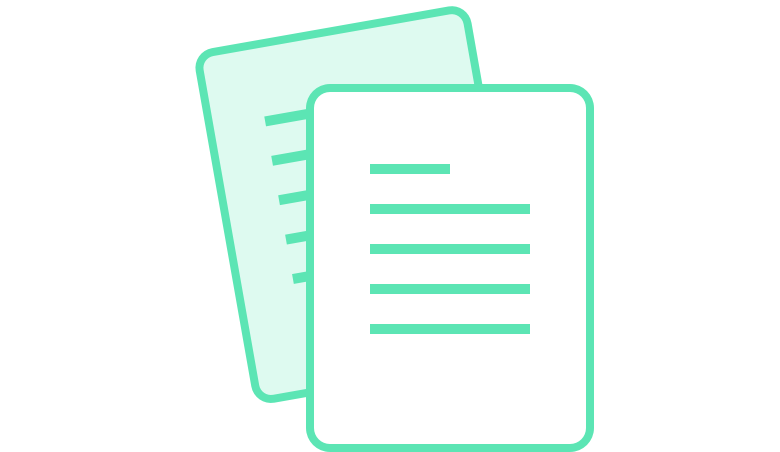
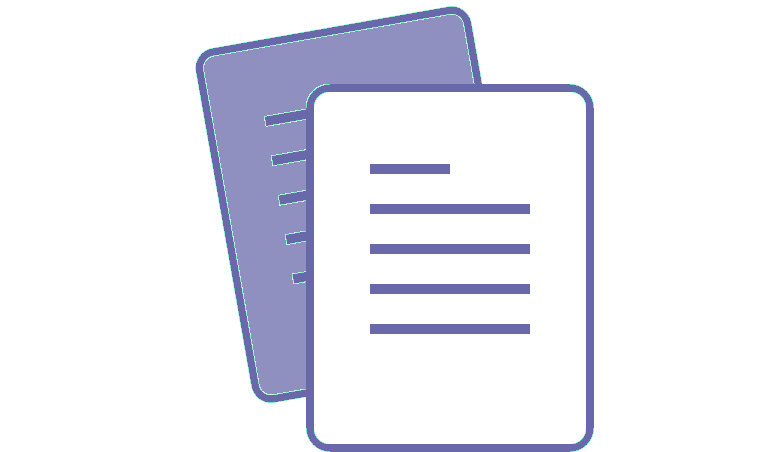
recolor website

diff --git a/css/form.css b/css/form.css
@@ -33,7 +33,7 @@
     font-weight: 700;
     font-size: 60px;
     line-height: 1.5em;
-    color: #5ce5b4;
+    color: #6868ab;
 }
 .ban {
     width: 1px;
@@ -47,7 +47,7 @@
     text-decoration: none;
     cursor: pointer;
     user-select: none;
-    color: rgb(92, 229, 180);
+    color: #6868ab;
 }
 .caption {
     font-size: 18px;
@@ -82,7 +82,7 @@
 }
 .Logologin:hover {
     transition: 0.2s;
-    border: 3px solid rgb(92, 229, 180);
+    border: 3px solid #6868ab;
 }
 .Logologin a span {
     font-size: 14px;
@@ -119,7 +119,7 @@
 }
 .form>.input>input:hover {
     transition: 0.3s all ease-in-out;
-    border: 3px solid rgb(92, 229, 180);
+    border: 3px solid #6868ab;
 }
 .submit-btn {
     width: 70%;
@@ -132,19 +132,19 @@
     height: 32px;
     line-height: 16px;
     border: none;
-    background-color: rgb(92, 229, 180);
+    background-color: #6868ab;
     margin: 0 auto;
     height: 40px;
 }
 .submit-btn:hover {
-    background-color: rgb(9, 158, 158);
+    background-color: #9494c5;
     cursor: pointer;
 }
 .forgot a {
-    color: rgb(92, 229, 180);
+    color: #6868ab;
 }
 .signup a {
-    color: rgb(92, 229, 180);
+    color: #6868ab;
 }
 .ealnnZ {
     display: flex;
@@ -152,7 +152,6 @@
     position: relative;
 }
 .kfOGth {
-
     position: absolute;
     top: 36px;
     left: 100px;
@@ -215,7 +214,7 @@
     opacity: .8 ;
 }
 .footer-col-option:hover{
-    color: #57c9a1;
+    color: #9494c5;
 }
 .footer-copyright{
     padding: 50px 0 20px;

diff --git a/css/account.css b/css/account.css
@@ -14,7 +14,7 @@ body {
     box-shadow: 0px 10px 25px 0px rgba(0, 0, 0, 0.15);
 }
 .header-logo {
-    color: #5ce5b4;
+    color: #6868ab;
     font-size: 30px;
     font-weight: 700;
 }
@@ -26,7 +26,7 @@ body {
     text-decoration: underline;
 }
 .back-to-music > * {
-    color: #5ce5b4;
+    color: #6868ab;
 }
 .container{
     margin: 50px auto;
@@ -46,11 +46,11 @@ body {
     cursor: pointer;
 }
 .nav-item:hover{
-    color:#5ce5b4;
+    color:#6868ab;
     opacity: .9;
 }
 .is-showing{
-    color:#5ce5b4;
+    color:#6868ab;
 }
 .account-info,
 .account-timer{
@@ -65,7 +65,7 @@ body {
 
 .form-name{
     margin-bottom: 50px;
-    color: #5ce5b4;
+    color: #6868ab;
 }
 .form-control-profile{
     width: 100%;
@@ -82,7 +82,7 @@ body {
 }
 .submit-info-btn{
     margin-top: 30px;
-    background-color: #5ce5b4;
+    background-color: #6868ab;
     color: #fff;
     height: 40px;
     width: 120px;
@@ -90,13 +90,13 @@ body {
     cursor: pointer;
 }
 .submit-info-btn:hover{
-    background-color: #57c9a1;
+    background-color: #9494c5;
 }
 .messProfile,
 .messTimer{
     height: 16px;
     margin-top: 10px;
-    color: #57c9a1;
+    color: #9494c5;
     /* padding-left: 30px; */
 }
 .messPassword{
@@ -162,7 +162,7 @@ body {
     opacity: .8 ;
 }
 .footer-col-option:hover{
-    color: #57c9a1;
+    color: #9494c5;
 }
 .footer-copyright{
     padding: 50px 0 20px;

diff --git a/css/index.css b/css/index.css
@@ -26,7 +26,7 @@
     border-radius: 20px;
 }
 .btn-signup a {
-    color: #5ce5b4;
+    color: #6868ab;
 }
 .btn-signup:hover{
     box-shadow: 0px 5px 20px 0px rgba(0,0,0,0.15);
@@ -88,12 +88,13 @@
     border: 0;
     padding: 10px 25px;
     color: #fff;
-    background-color: #5ce5b4;
+    background-color: #6868ab;
     border-radius: 20px;
     cursor: pointer;
 }
 .section-btn:hover{
     box-shadow: 0px 5px 20px 0px rgba(0,0,0,0.15);
+    background-color: #9494c5;
 }
 
 /* footer */
@@ -137,7 +138,7 @@
     opacity: .8 ;
 }
 .footer-col-option:hover{
-    color: #57c9a1;
+    color: #9494c5;
 }
 .footer-copyright{
     padding: 50px 0 20px;
@@ -182,7 +183,7 @@
         border-radius: 20px;
     }
     .btn-login a {
-        color: #5ce5b4;
+        color: #6868ab;
     }
     .btn-login:hover{
         box-shadow: 0px 5px 20px 0px rgba(0,0,0,0.15);

diff --git a/html/account.html b/html/account.html
@@ -91,7 +91,7 @@
     </div>
     <div class="footer">
         <div class="footer-info">
-            <div class="footer-logo">RelaxBro <ion-icon name="hand-right-outline"></ion-icon></div>
+            <div class="footer-logo">RelaxBro</div>
             <div class="footer-content">
                 <div class="footer-col">
                     <div class="footer-col-name">COMPANY</div>

diff --git a/js/account.js b/js/account.js
@@ -84,7 +84,7 @@ function updatePassword(e) {
         localStorage.setItem(currentEmail, json);
 
         noti2.innerHTML='Success!';
-        noti2.style.color = '#57c9a1';
+        noti2.style.color = '#9494c5';
         setTimeout(()=>{
             noti2.innerHTML='';
         },3000)

diff --git a/css/all.css b/css/all.css
@@ -11,7 +11,7 @@ body {
     font-size: 16px;
     font-weight: 600;
     width: 100%;
-    background-color: #5ce5b4;
+    background-color: #6868ab;
     color: #fff;
     scroll-behavior: smooth;
 }
